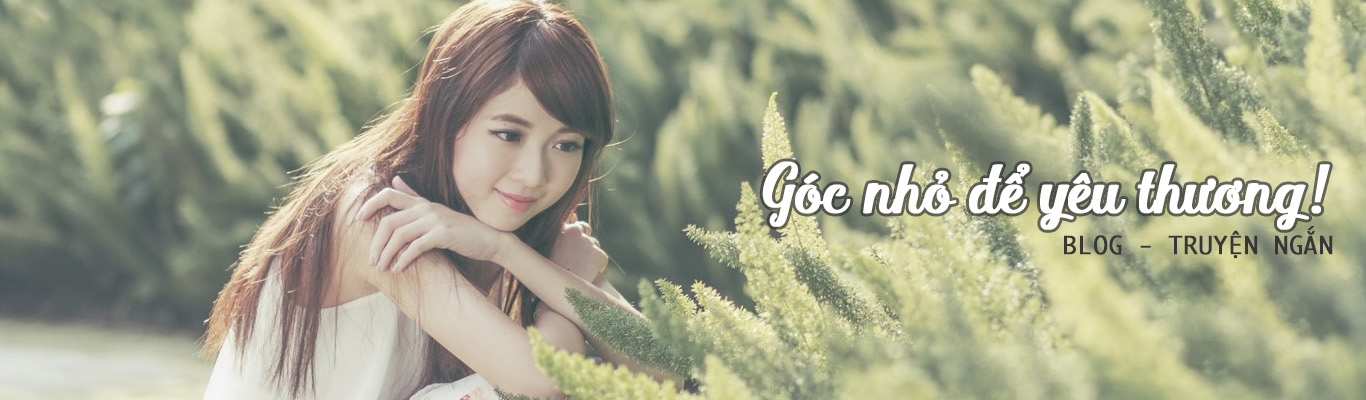
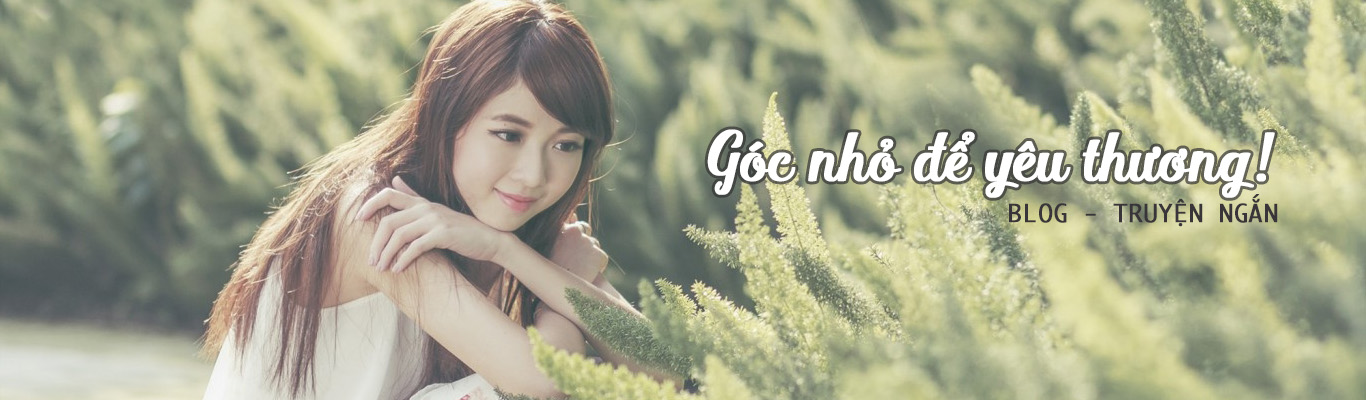
Add 5 random post

Changed region(s): [[0.4919, 0.3, 0.9839, 0.66]]

diff --git a/index.php b/index.php
@@ -47,6 +47,13 @@
 			width: 350px;
 			background: #eee;
 			margin-top: 17px;
+			text-align: left;
+		}
+
+		.sidebar h3 {
+			padding: 0 15px;
+			color: #456;
+			margin-bottom: 0px;
 		}
 
 		.footer {
@@ -60,7 +67,21 @@
 		}
 
 		.list-post {
-			text-align: left;
+	    list-style: none;
+	    padding-left: 0;
+	    margin-top: 5px;
+		}
+
+		.list-post a {
+	    color: #890;
+	    text-decoration: none;
+	    padding: 3px 15px;
+	    display: block;
+	    border-bottom: 1px dotted #ddd;
+		}
+
+		.list-post a:hover {
+			color: #456;
 		}
 
 	</style>
@@ -68,11 +89,32 @@
 <body>
 	<div class="banner desktop-only">
 		<a href="https://www.facebook.com/gocyeuthuong.net/" target="_blank">
-		  <img src="banner.jpg" alt="Góc yêu thương | Góc nhỏ để yêu thương" title="Góc yêu thương | Góc nhỏ để yêu thương">
+		  <img src="banner2.jpg" alt="Góc yêu thương | Góc nhỏ để yêu thương" title="Góc yêu thương | Góc nhỏ để yêu thương">
 		</a>
 	</div>
 
 	<div class="main-content">
+		<div class="sidebar">
+			<iframe src="https://www.facebook.com/plugins/page.php?href=https%3A%2F%2Fwww.facebook.com%2Fgocyeuthuong.net%2F&tabs&width=340&height=70&small_header=true&adapt_container_width=true&hide_cover=false&show_facepile=false&appId=292300460886432" width="340" height="70" style="border:none;overflow:hidden" scrolling="no" frameborder="0" allowTransparency="true"></iframe>
+
+			<h3>5 bài ngẫu nhiên</h3>
+			<ul class="list-post">
+			<?php
+				$random_keys = array_rand($data['ids'], 5);
+
+				// Random post
+				for( $i = 0; $i<5; $i++ ) {
+            print '<li><a href="https://www.facebook.com/gocyeuthuong.net/posts/'.$data['ids'][$random_keys[$i]]["id"].'">⊹ '.$data['ids'][$random_keys[$i]]["title"].'</a></li>';
+         }
+				
+				// Get all post
+				// foreach ($random_data['ids'] as $item) {
+				// 	print '<li><a href="https://www.facebook.com/gocyeuthuong.net/posts/'.$item["id"].'">⊹ '.$item["title"].'</a></li>';
+				// }
+			?>
+			</ul>
+		</div>
+
 		<div class="content">
 		<?php 
 			foreach ($data['ids'] as $item) {
@@ -82,21 +124,10 @@
 		?>
 		</div>
 
-		<div class="sidebar">
-		<iframe src="https://www.facebook.com/plugins/page.php?href=https%3A%2F%2Fwww.facebook.com%2Fgocyeuthuong.net%2F&tabs&width=340&height=70&small_header=true&adapt_container_width=true&hide_cover=false&show_facepile=false&appId=292300460886432" width="340" height="70" style="border:none;overflow:hidden" scrolling="no" frameborder="0" allowTransparency="true"></iframe>
-
-			<ul class="list-post">
-			<?php 
-				foreach ($data['ids'] as $item) {
-					print '<li><a href="https://www.facebook.com/gocyeuthuong.net/posts/'.$item["id"].'">'.$item["title"].'</a></li>';
-				}
-			?>
-			</ul>
-		</div>
 	</div>
 
 	<div class="footer">
-		<a href="https://www.facebook.com/gocyeuthuong.net" target="_blank" title="Gocyeuthuong on Facebool">GocYeuThuong.Net © 2017 </a>
+		<a href="http://gocyeuthuong.net" title="Gocyeuthuong">GocYeuThuong.Net © 2017 </a>
 	</div>
 </body>
 </html>
